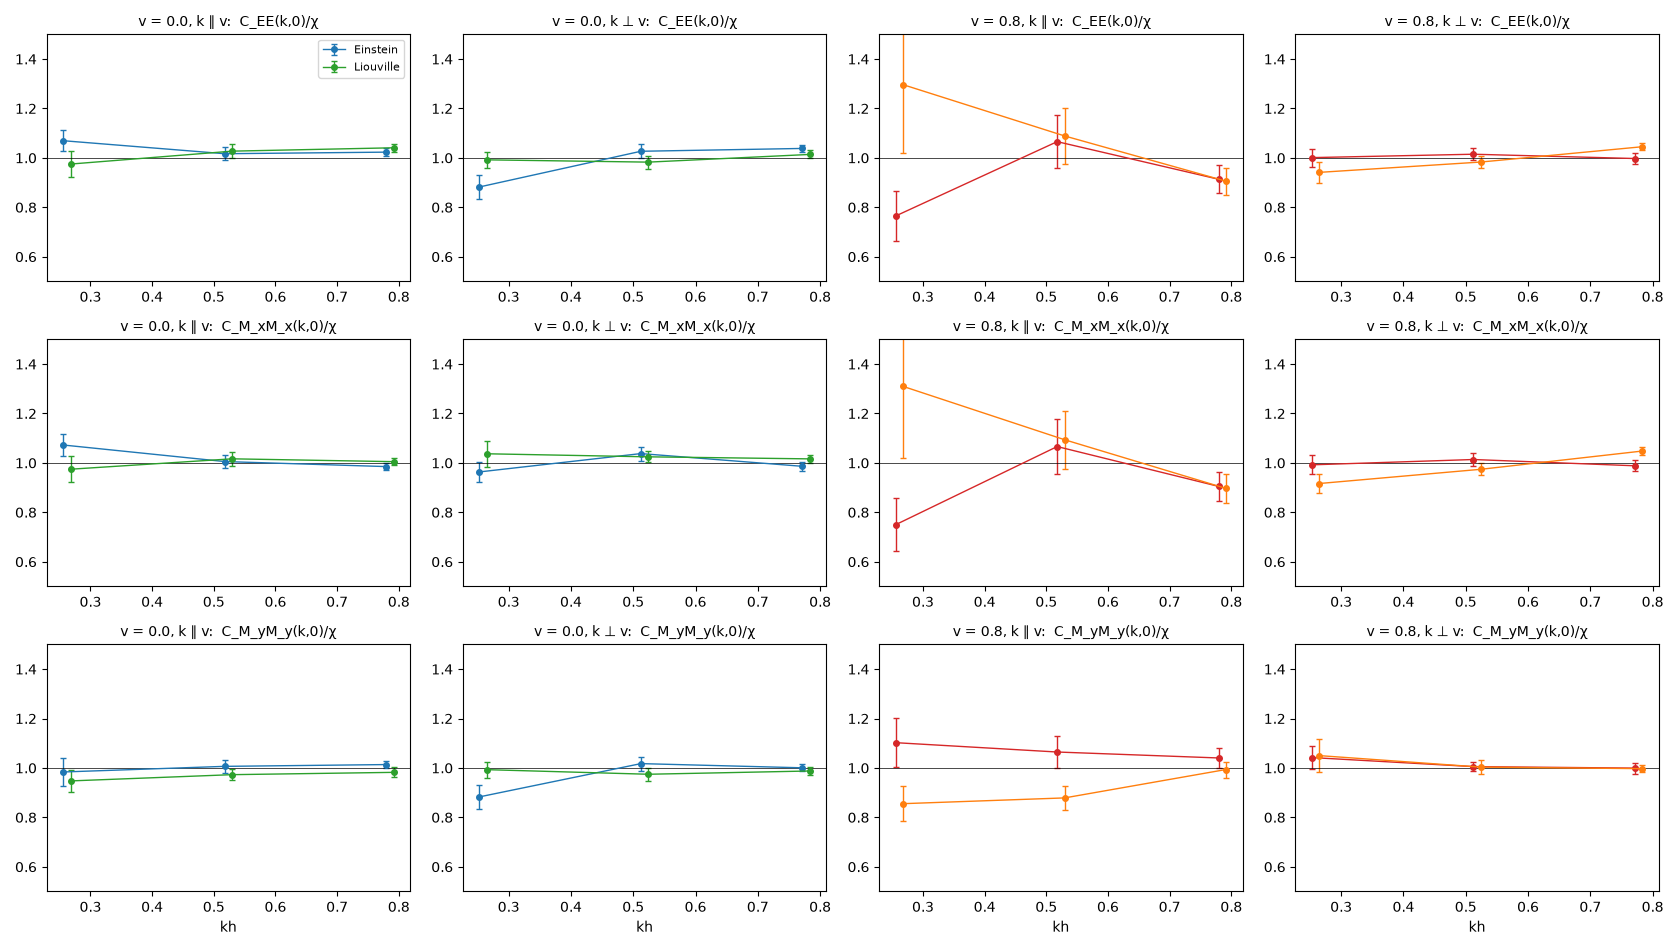
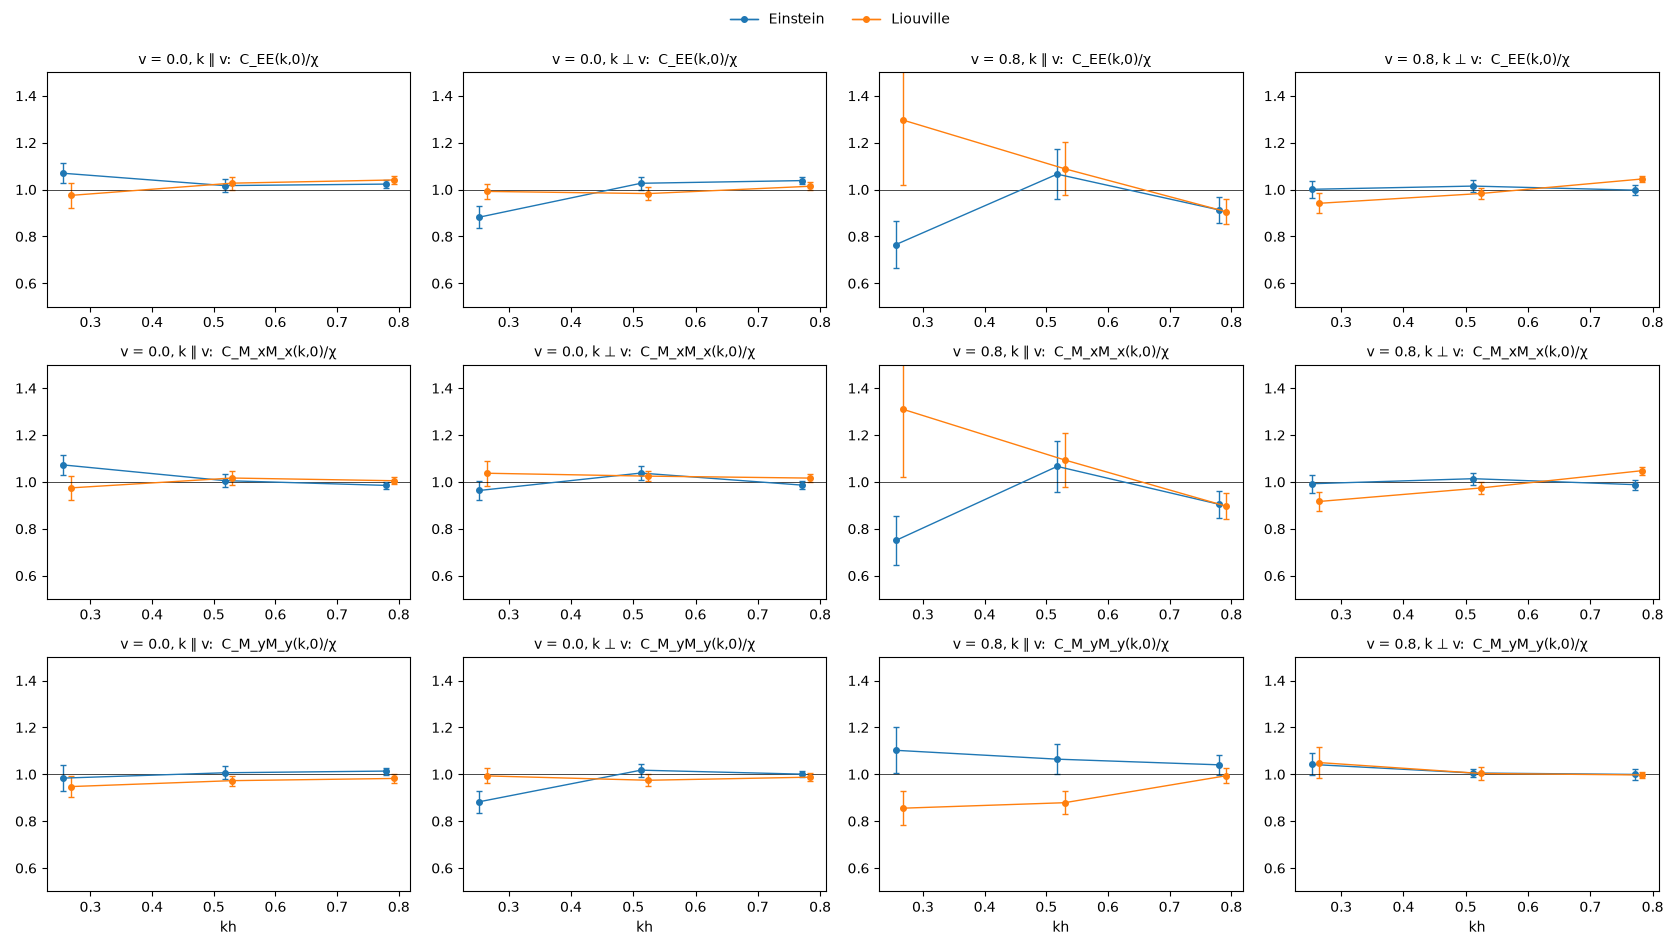
equal-time figures: one colour per method at both velocities and one key for all panels (Figs. hlstatic, hdstatic); captions

diff --git a/docs/equilibrium_positions.tex b/docs/equilibrium_positions.tex
@@ -716,7 +716,7 @@ at $kh\lesssim0.5$ this is a hint, to be checked with \texttt{hmc\_liou2} (64 ru
 \begin{figure}[p]
 \includegraphics[width=\textwidth]{figs/boost_equaltime_HL.png}
 \caption{Campaign \texttt{hmc\_liou}: equal-time $C_{AA}(\bm k,0)/\chi_{AA}$, GLF + HMC start with the Einstein (\texttt{hmc\_dyn}) and the Liouville measure,
-16 runs each, jackknife errors; as \Fig{fig:hdstatic}.}
+16 runs each, jackknife errors; one colour per measure at both velocities (key at the top); panels as in \Fig{fig:hdstatic}.}
 \label{fig:hlstatic}
 \end{figure}
 \begin{figure}[p]
@@ -780,7 +780,8 @@ $t$ for four bands of $kh$; dashed, the HMC equilibrium of \texttt{hmc\_eq} at t
 \begin{figure}[p]
 \includegraphics[width=\textwidth]{figs/boost_equaltime_HD.png}
 \caption{Campaign \texttt{hmc\_dyn}: equal-time $C_{AA}(\bm k,0)/\chi_{AA}$ against $kh$ for $A=E$, $M_x$, $M_y$ (rows), at $v_0=0$ and $0.8$ with $\bm k$
-along and across $x$ (columns); the four methods overlaid (shifted slightly in $kh$), 16 runs each, jackknife errors.}
+along and across $x$ (columns); the four methods overlaid (shifted slightly in $kh$), one colour per method at both velocities (key at the
+top), 16 runs each, jackknife errors.}
 \label{fig:hdstatic}
 \end{figure}
 \begin{figure}[p]
@@ -873,8 +874,7 @@ $\Delta H/H$, $v_0=0.8$, $t=300$ & $3\times10^{-4}$ & $3\times10^{-4}$ & $6\time
 \begin{figure}[p]
 \includegraphics[width=\textwidth]{figs/boost_equaltime_HL2.png}
 \caption{Campaign \texttt{hmc\_liou2}: equal-time $C_{AA}(\bm k,0)/\chi_{AA}$ for $A=E$, $M_x$, $M_y$ (rows), at $v_0=0$ and $0.8$ with $\bm k$ along and
-across $x$ (columns), 64 runs per cell, jackknife errors.  Colours at $v_0=0$ as in the legend; at $v_0=0.8$ red GLF + HMC, orange GLF +
-lattice, brown DKD + HMC, olive DKD + lattice.}
+across $x$ (columns), 64 runs per cell, jackknife errors; one colour per method at both velocities (key at the top).}
 \label{fig:hl2static}
 \end{figure}
 \begin{figure}[p]
